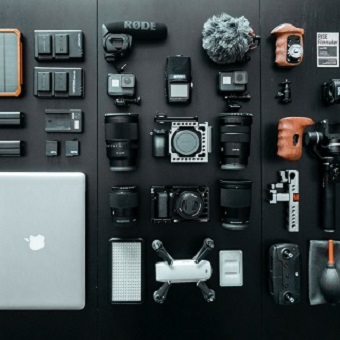
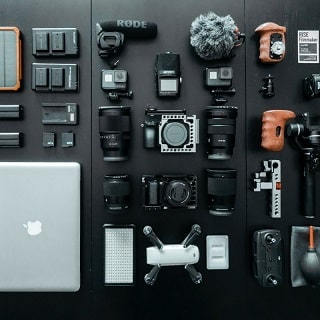
modifs taille images, retouche de contraste des couleurs

diff --git a/style.css b/style.css
@@ -695,7 +695,7 @@ label,
 a {
     font-family: "helvetica";
     font-weight: 400;
-    color: #575757!important;
+    color: #000000;
 }
 
 .container {
@@ -735,7 +735,7 @@ p {
 
 .cta-hero {
     margin-top: 22px;
-    color: #FFFFFF!important;
+    color: #000000;
     text-transform: uppercase;
     padding: 12px 28px 12px 28px;
     font-size: 16px;
@@ -813,7 +813,7 @@ h4 {
 }
 
 .bgc-dark-slate-blue {
-    background-color: #364577;
+    background-color: #000000;
 }
 
 .bgc-atomic-tangerine {
@@ -826,7 +826,7 @@ h4 {
 
 .btn-atomic-tangerine {
     background: #F3976C;
-    color: #FFFFFF!important;
+    color: #000000;
 }
 
 .btn-atomic-tangerine:hover {
